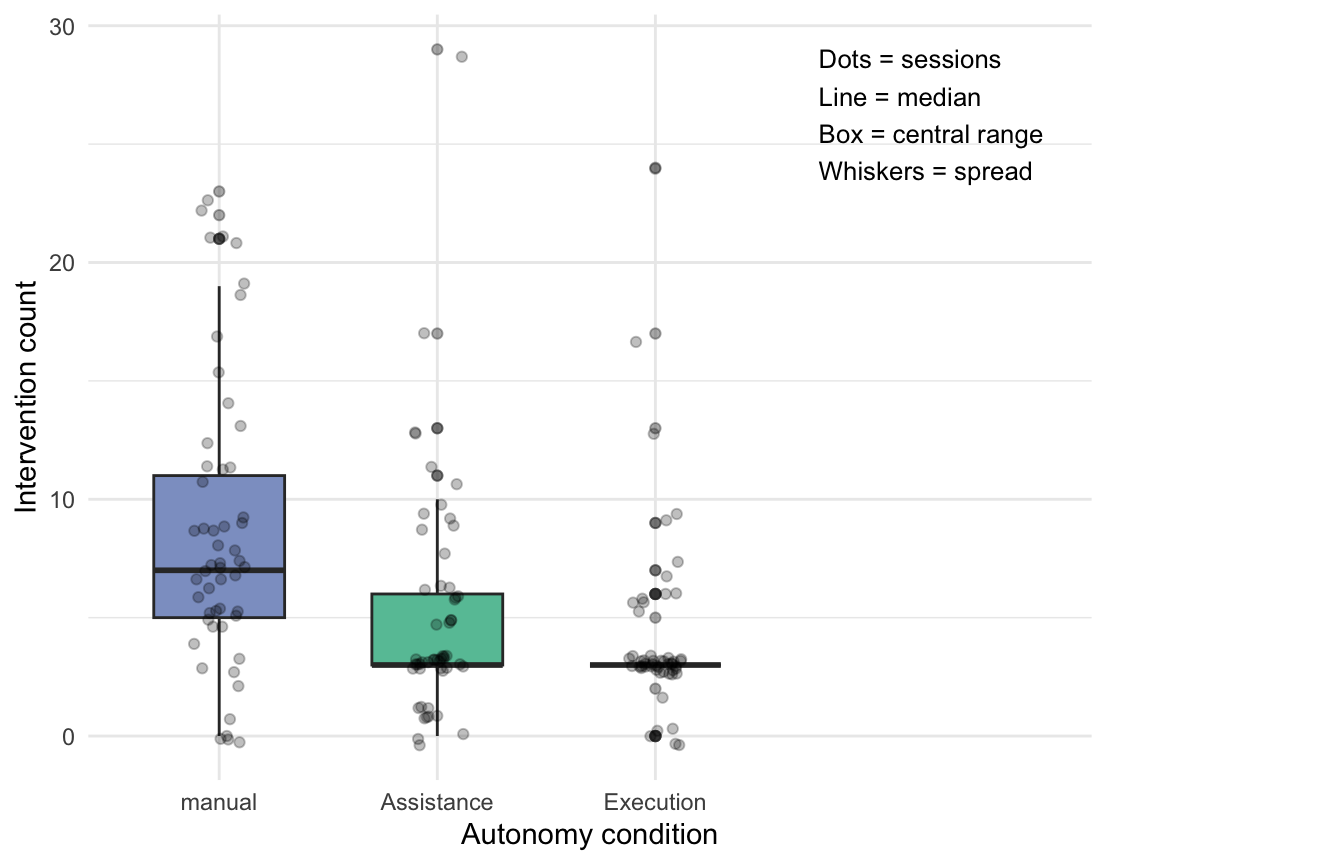
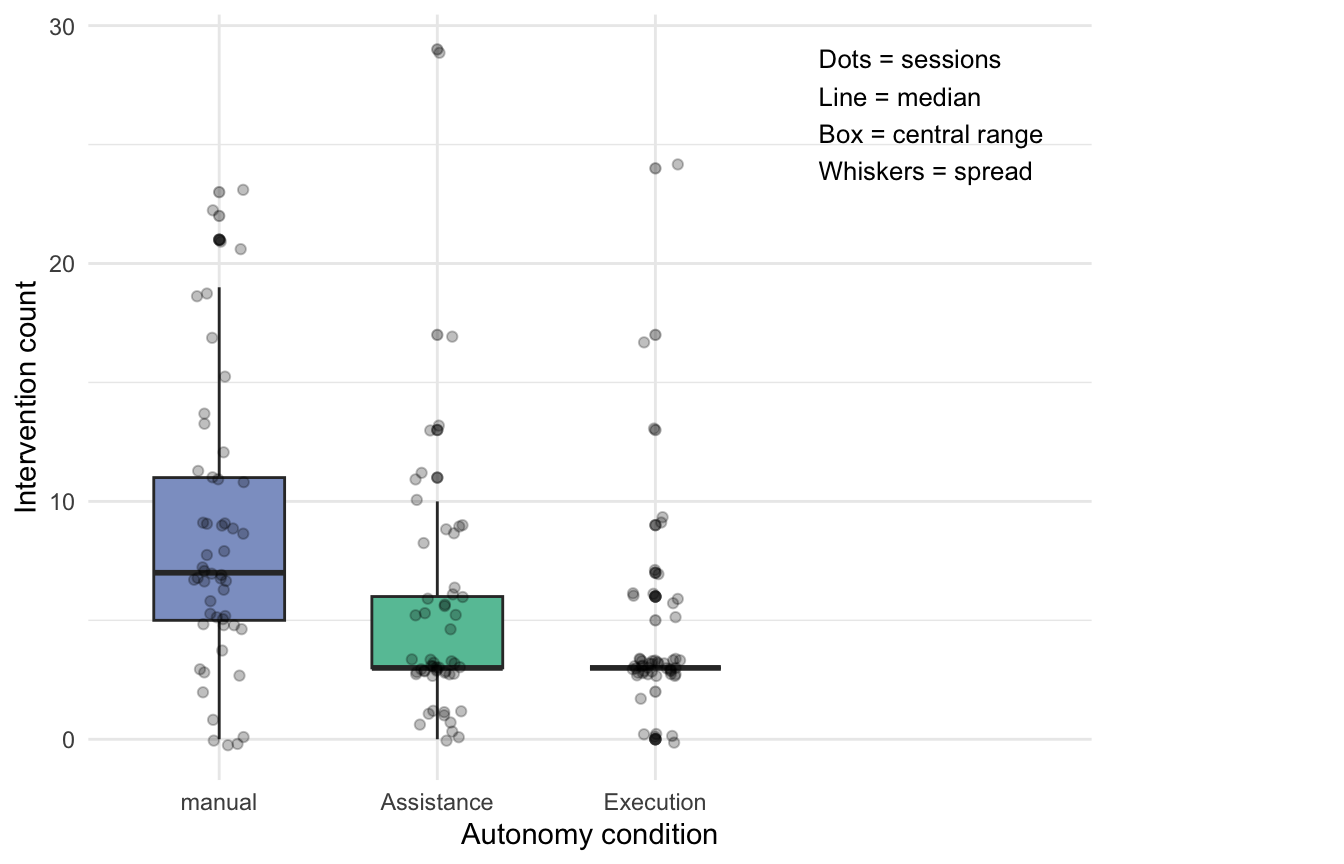
starting data preparing

diff --git a/ai-execution-autonomy-analysis.html b/ai-execution-autonomy-analysis.html
@@ -341,6 +341,11 @@ Figure&nbsp;6: Distribution of intervention counts across autonomy conditions.
 </div>
 </div>
 </div>
+<p>Figure 6 suggests that intervention frequency differed across autonomy conditions. The Manual condition showed the highest intervention counts overall, whereas the Execution condition showed the lowest. The Assistance condition fell between these two extremes. This descriptive pattern is consistent with the expectation that greater execution autonomy reduces the need for user intervention, although formal statistical testing is required to assess whether these differences are significant.</p>
+<p><strong>3.6 Data Preparation and Analysis</strong></p>
+<p>The raw dataset consisted of event-level interaction logs. Prior to analysis, all entries associated with the <code>Information</code> mode were excluded because they reflected passive <code>PAGE_VIEW</code> events rather than meaningful task-related interaction. In addition, repeated participation was checked at the participant-session level, and no repeated entries were identified. After this cleaning step, the data were aggregated to the session level, so that each session represented one participant’s interaction within one assigned condition.</p>
+<p>Based on this session-level aggregation, summary variables were derived for task progress, task completion, abandonment, error occurrence, and intervention behavior. Sessions in which the task was not started were retained for the descriptive overview of overall task progression, but they were excluded from analyses that required actual task execution. Accordingly, abandonment, error occurrence, and intervention behavior were analyzed only for started sessions. Task completion time was calculated only for completed sessions, as this measure required both a valid start point and a valid end point.</p>
+<p>Statistical analyses were selected according to the measurement level of the respective variables. Differences in task completion time across autonomy conditions were assessed using the Kruskal–Wallis test, followed by pairwise Wilcoxon rank-sum tests as post-hoc comparisons where appropriate. Differences in abandonment across conditions were examined using a chi-square test of independence. For error occurrence and intervention occurrence, proportion-based comparisons were conducted across conditions using proportion tests.</p>
 
 </main>
 <!-- /main column -->
